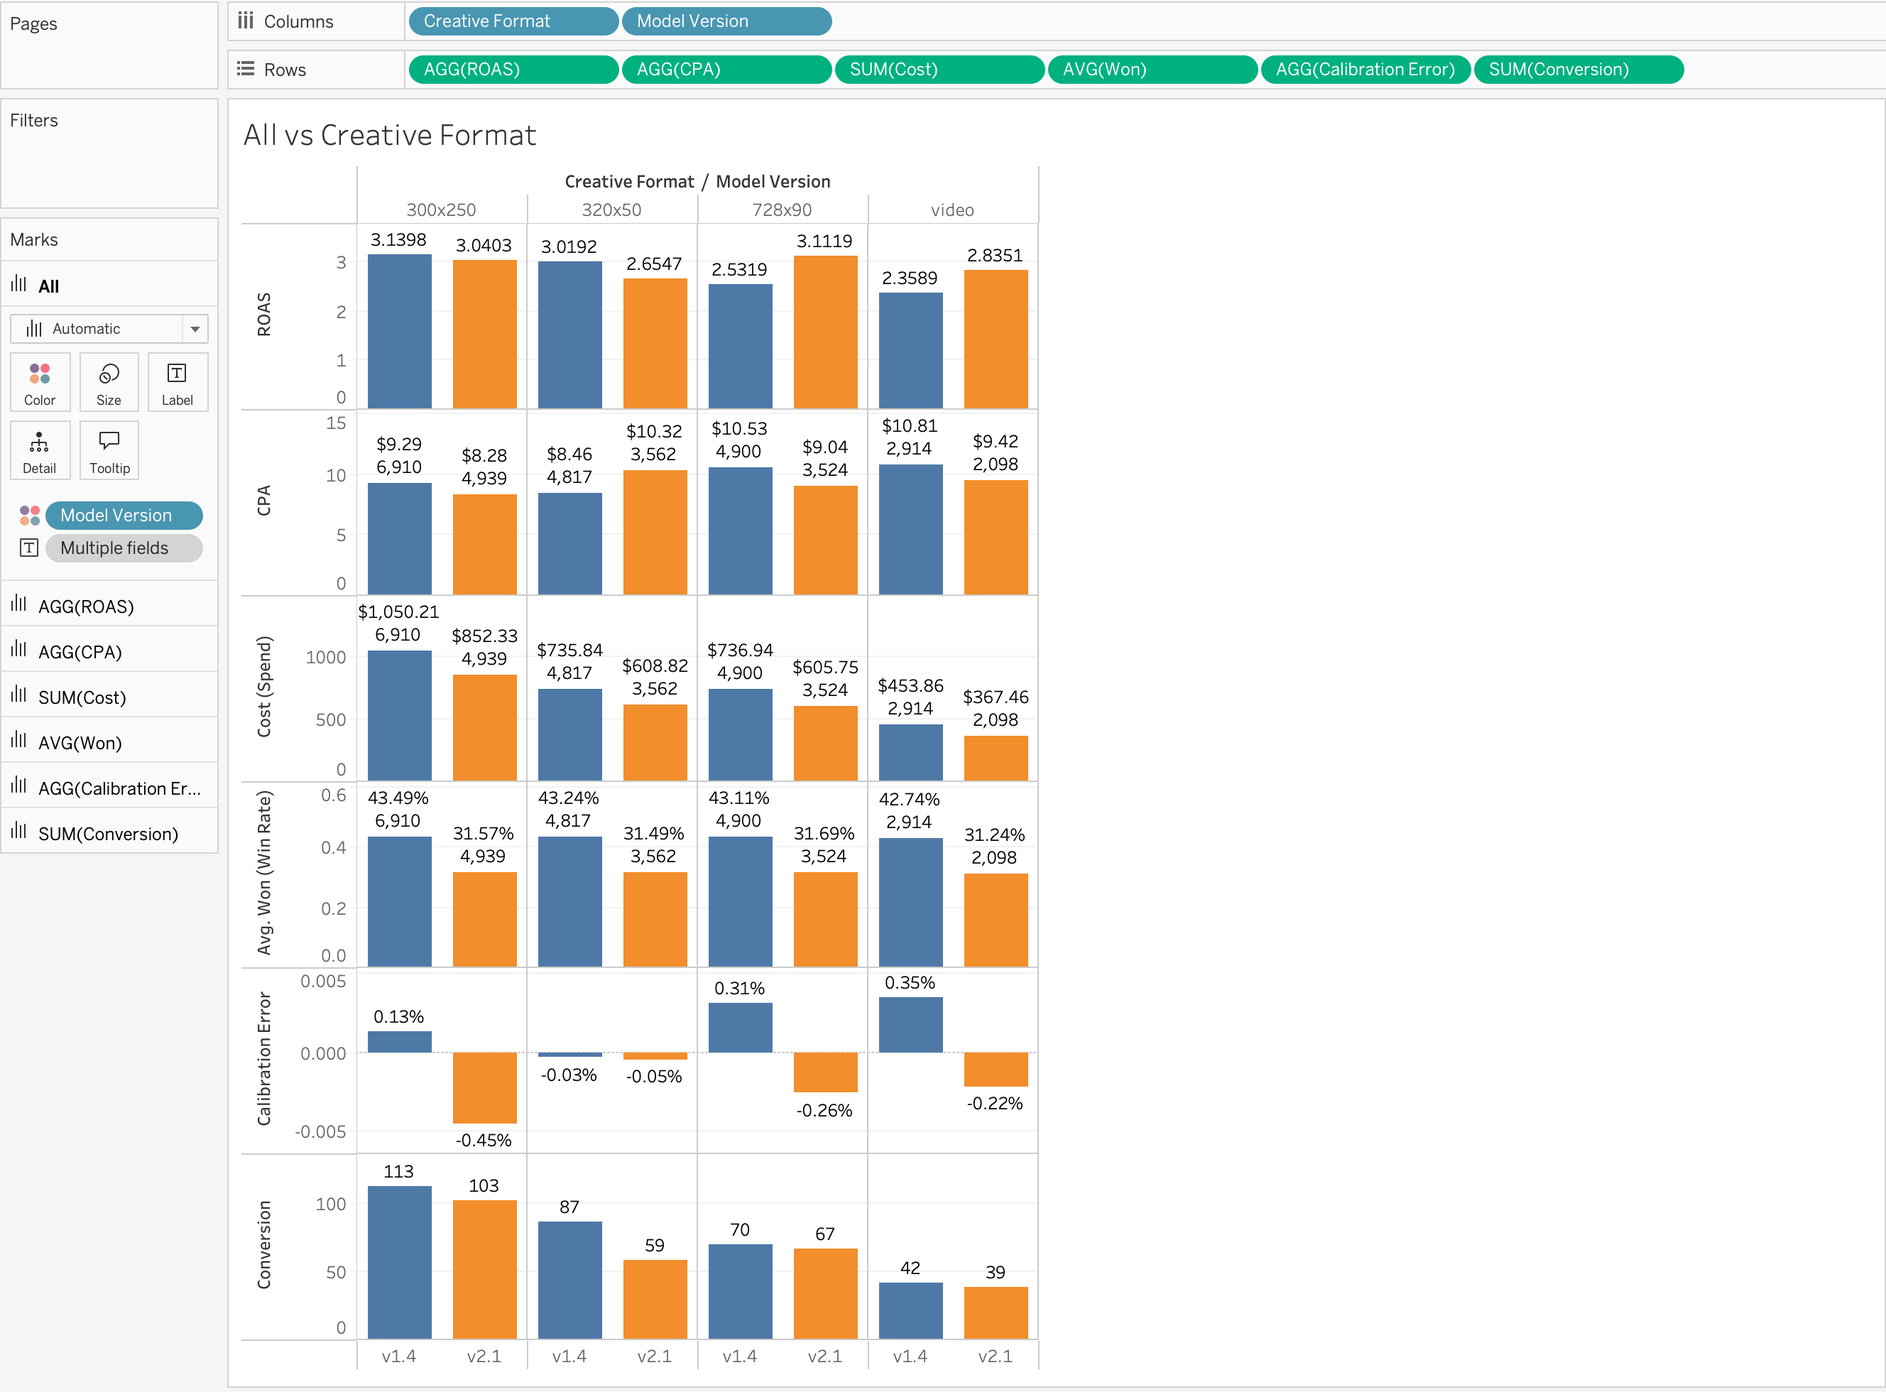
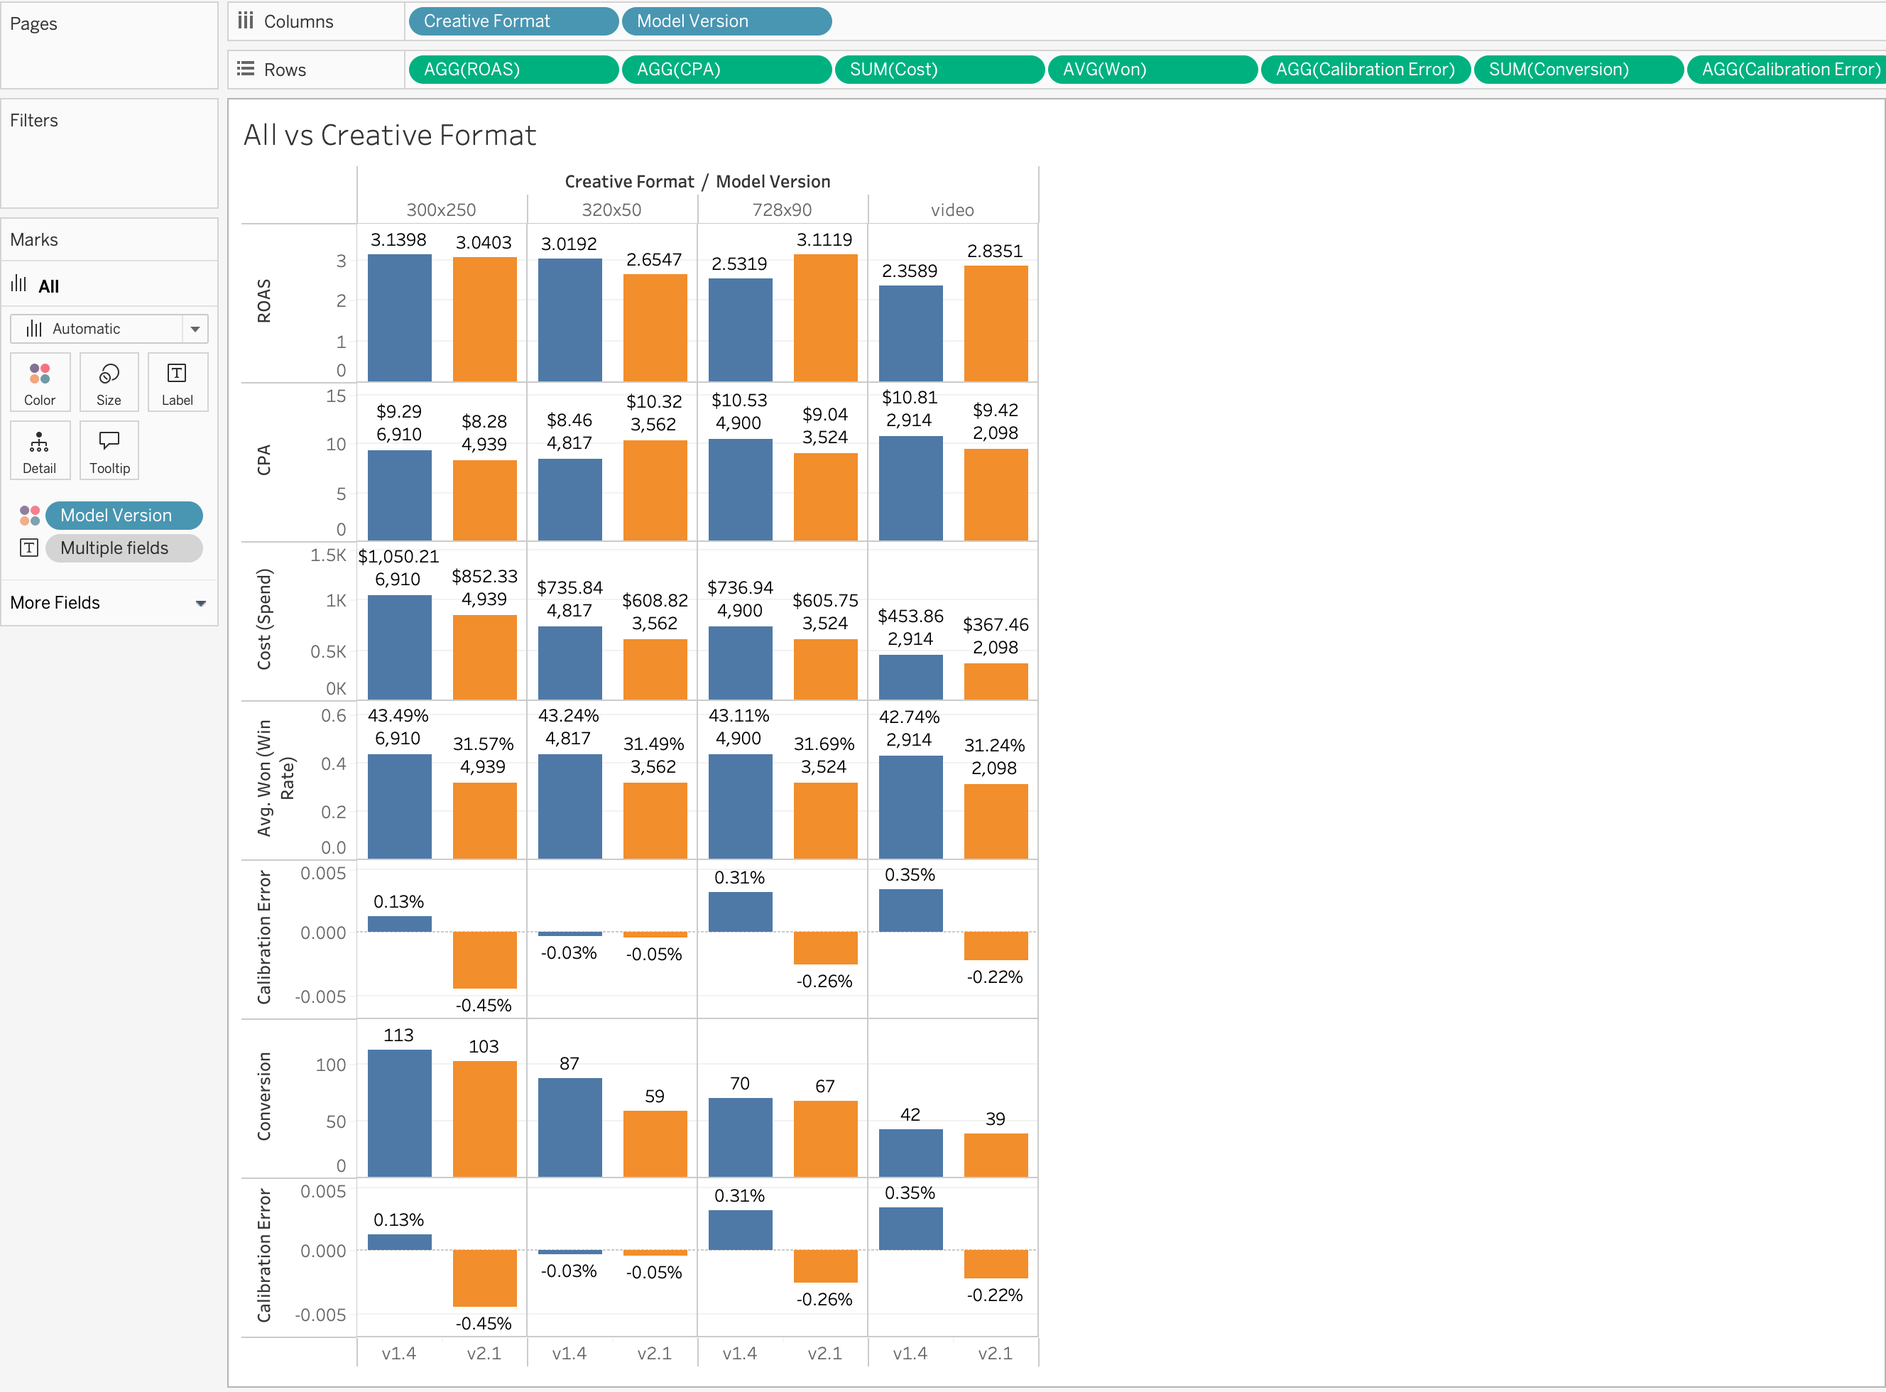
first 3 slides completed

diff --git a/index.html b/index.html
@@ -95,7 +95,7 @@
       position: absolute;
       left: 70px;
       right: 70px;
-      bottom: 22px;
+      bottom: 48px;
       display: flex;
       align-items: center;
       justify-content: space-between;
@@ -154,6 +154,33 @@
     .card.caution { border-color: rgba(255,159,47,0.45); }
     .card.danger { border-color: rgba(255,91,91,0.45); }
     .card.clean { background: rgba(255,255,255,0.045); }
+    .recommendation-stack {
+      display: grid;
+      grid-template-columns: repeat(3, minmax(0, 1fr));
+      gap: 14px;
+      margin-top: 0;
+      align-items: start;
+    }
+    .recommendation-grid { display: grid; gap: 10px; grid-template-columns: 1fr; }
+    .recommendation-card { padding: 11px 12px; min-height: 76px; }
+    .recommendation-card h3 { font-size: 14px; margin-bottom: 4px; }
+    .recommendation-card p { font-size: 12px; line-height: 1.24; }
+    .recommendation-layout {
+      display: grid;
+      grid-template-columns: minmax(0, 1.45fr) minmax(250px, 0.75fr);
+      gap: 22px;
+      align-items: center;
+      margin-top: 18px;
+    }
+    .recommendation-visual {
+      padding: 12px;
+      background: #f8fbfd;
+      border: 1px solid var(--line);
+      border-radius: 18px;
+    }
+    .recommendation-visual .comparison-chart {
+      max-height: 340px;
+    }
 
     .pill-row { display: flex; flex-wrap: wrap; gap: 10px; margin-top: 18px; }
     .pill {
@@ -234,6 +261,112 @@
       line-height: 1.4;
     }
     .visual-slot strong { color: var(--ink); display: block; margin-bottom: 8px; }
+    .comparison-chart {
+      display: block;
+      width: 100%;
+      height: auto;
+      max-height: 430px;
+      object-fit: contain;
+      border-radius: 14px;
+    }
+    .report-gallery {
+      display: grid;
+      grid-template-columns: repeat(3, minmax(0, 1fr));
+      gap: 14px;
+      margin-top: 18px;
+    }
+    .report-tile {
+      min-width: 0;
+      padding: 8px;
+      background: #f8fbfd;
+      border: 1px solid var(--line);
+      border-radius: 16px;
+      cursor: zoom-in;
+    }
+    .report-tile img {
+      display: block;
+      width: 100%;
+      height: 190px;
+      object-fit: contain;
+      border-radius: 10px;
+      background: white;
+    }
+    .report-tile img:focus-visible {
+      outline: 3px solid #EBD769;
+      outline-offset: 3px;
+    }
+    .report-tile figcaption {
+      padding: 8px 4px 2px;
+      color: var(--ink);
+      font-size: 13px;
+      font-weight: 800;
+    }
+    .report-note {
+      margin-top: 12px;
+      color: var(--muted);
+      font-size: 13px;
+      font-weight: 700;
+      text-align: center;
+    }
+    .report-modal {
+      position: fixed;
+      inset: 0;
+      display: none;
+      align-items: center;
+      justify-content: center;
+      padding: 5vh 5vw;
+      background: rgba(23,53,74,0.68);
+      z-index: 2000;
+    }
+    .report-modal-open { overflow: hidden; }
+    .report-modal.open { display: flex; }
+    .report-modal-panel {
+      position: relative;
+      width: min(80vw, 1200px);
+      max-height: 90vh;
+      padding: 16px;
+      overflow: auto;
+      background: #f8fbfd;
+      border: 1px solid #cbdbe3;
+      border-radius: 18px;
+      box-shadow: 0 26px 70px rgba(0,0,0,0.34);
+      animation: reportZoomIn 0.22s ease-out;
+    }
+    .report-modal-panel img {
+      display: block;
+      width: 100%;
+      height: auto;
+      max-height: 78vh;
+      object-fit: contain;
+      border-radius: 10px;
+      background: white;
+    }
+    .report-modal-panel figcaption {
+      padding: 10px 4px 0;
+      color: var(--ink);
+      font-size: 14px;
+      font-weight: 800;
+    }
+    .report-modal-close {
+      position: absolute;
+      top: 8px;
+      right: 8px;
+      width: 36px;
+      height: 36px;
+      border: 1px solid #cbdbe3;
+      border-radius: 50%;
+      background: rgba(255,255,255,0.96);
+      color: var(--ink);
+      font-size: 24px;
+      line-height: 1;
+      cursor: pointer;
+      z-index: 1;
+    }
+    .report-modal-close:hover { background: #eef8fd; }
+    @keyframes reportZoomIn {
+      from { opacity: 0.7; transform: scale(0.72); }
+      to { opacity: 1; transform: scale(1); }
+    }
 
     .route-map { display: grid; gap: 13px; margin-top: 12px; }
     .route-row { display: grid; grid-template-columns: 130px 1fr 116px; gap: 10px; align-items: center; }
@@ -339,7 +472,8 @@
       cursor: pointer;
       backdrop-filter: blur(12px);
     }
-    .nav-btn:hover { background: rgba(215,255,47,0.16); border-color: rgba(215,255,47,0.44); }
+    .nav-btn:hover:not(:disabled) { background: rgba(215,255,47,0.16); border-color: rgba(215,255,47,0.44); }
+    .nav-btn:disabled { opacity: 0.35; cursor: default; }
     .progress { position: fixed; left: 0; bottom: 0; height: 4px; background: linear-gradient(90deg, var(--lime), var(--cyan)); width: 0%; z-index: 101; transition: width 0.25s ease; }
     .help { position: fixed; left: 22px; bottom: 18px; color: rgba(255,255,255,0.55); font-size: 12px; z-index: 100; }
 
@@ -353,6 +487,12 @@
       h1 { font-size: 50px; }
       h2 { font-size: 36px; }
       .grid-2, .grid-3, .grid-4, .grid-main, .split-hero, .compare { grid-template-columns: 1fr; }
+      .recommendation-layout { grid-template-columns: 1fr; }
+      .recommendation-stack { grid-template-columns: 1fr; }
+      .recommendation-grid { grid-template-columns: 1fr; }
+      .report-gallery { grid-template-columns: 1fr; }
+      .report-tile img { height: auto; max-height: 260px; }
+      .report-modal-panel { width: 92vw; max-height: 88vh; }
       .orb { width: 310px; height: 310px; margin: 20px auto 0; }
       .metric-grid { grid-template-columns: repeat(2, 1fr); }
       .timeline { grid-template-columns: 1fr; }
@@ -587,12 +727,27 @@
       box-shadow: 0 6px 18px rgba(31,75,99,0.11);
       backdrop-filter: none;
     }
-    .nav-btn:hover {
+    .nav-btn:hover:not(:disabled) {
       background: #eef8fd;
       border-color: rgba(10,130,190,0.42);
     }
+    .nav-btn:disabled {
+      opacity: 0.4;
+      cursor: default;
+      box-shadow: none;
+    }
     .progress {
-      background: linear-gradient(90deg, #0A82BE 0%, #0A82BE 88%, #EBD769 100%);
+      background: #0A82BE;
+      overflow: hidden;
+    }
+    .progress::after {
+      content: "";
+      position: absolute;
+      top: 0;
+      right: 0;
+      bottom: 0;
+      width: 8px;
+      background: #EBD769;
     }
     .help { color: #84929b; }
 
@@ -623,57 +778,68 @@
       <div class="slide-content">
         <div class="kicker">Final decision</div>
         <h2>Ship v2.1 — but only on validated cohorts first.</h2>
-        <div class="decision-band">
-          <div class="decision active">
-            <div class="label">Recommend</div>
-            <div class="value">Ship v2.1 controlled</div>
-            <div class="why">Better overall unit economics, with known segment-level regressions.</div>
+        <p class="subhead" style="font-size:18px; max-width:1080px; margin-top:-8px;">v2.1 is not universally better, but it is more efficient overall and wins materially in several high-value/high-volume cohorts. The regressions are concentrated and identifiable, which is why a controlled/hybrid rollout is preferable to either a full rollout or a hold.</p>
+        <div class="recommendation-layout">
+          <div class="recommendation-stack">
+            <div class="recommendation-grid four">
+              <div class="card glow recommendation-card"><h3>Better overall efficiency</h3><p class="muted">ROAS <strong>2.84 → 2.93</strong>; CPA <strong>$9.54 → $9.08</strong>.</p></div>
+              <div class="card glow recommendation-card"><h3>Lower spend</h3><p class="muted"><strong>~ $542 less overall</strong> while preserving strong business outcomes.</p></div>
+              <div class="card glow recommendation-card"><h3>Strong in high-value cohorts</h3><p class="muted">Especially <strong>Mobile, Lookalike, APAC, 728x90, Video</strong>.</p></div>
+              <div class="card glow recommendation-card"><h3>Broad campaign improvement</h3><p class="muted">Better CPA in <strong>4/5</strong> campaigns and better ROAS in <strong>3/5</strong>.</p></div>
+            </div>
+            <div class="recommendation-grid two">
+              <div class="card caution recommendation-card"><h3>More selective bidding</h3><p class="muted">Lower win rate, <strong>~ 43.2% → 31.5%</strong> but better unit economics in key segments.</p></div>
+            </div>
+            <div class="recommendation-grid three">
+              <!-- <div class="card danger recommendation-card"><h3>Lower win rate</h3><p class="muted"><strong>~ 43.2% → 31.5%</strong>, creating scale and delivery risk.</p></div> -->
+              <div class="card danger recommendation-card"><h3>Segment regressions</h3><p class="muted">Weaker in <strong>CMP_1003, Tablet, 320x50, Retargeting</strong>.</p></div>
+              <!-- <div class="card danger recommendation-card"><h3>Possible over-conservatism</h3><p class="muted">May miss valuable auctions in some cohorts.</p></div> -->
+              <div class="card danger recommendation-card"><h3>Calibration not uniformly better</h3><p class="muted">Some segments still show prediction error.</p></div>
+              <div class="card danger recommendation-card"><h3>Publisher instability</h3><p class="muted">Performance varies significantly by publisher.</p></div>
+            </div>
           </div>
-          <div class="decision">
-            <div class="label">Do not</div>
-            <div class="value">Full replace v1.4</div>
-            <div class="why">Regression pockets still need isolation and fixes.</div>
+          <div class="recommendation-visual">
+            <img class="comparison-chart" src="Reports/v1.4%20vs%20v2.1.png" alt="Comparison chart of v1.4 and v2.1 performance metrics" />
           </div>
-          <div class="decision">
-            <div class="label">Fallback</div>
-            <div class="value">Route weak cohorts</div>
-            <div class="why">Use v1.4 only where it is validated to outperform.</div>
-          </div>
-        </div>
-        <div class="grid grid-3" style="margin-top:28px;">
-          <div class="card glow"><div class="big-number accent">4/5</div><h3>Campaigns with better CPA</h3><p class="muted">v2.1 reduces acquisition cost in most campaigns.</p></div>
-          <div class="card glow"><div class="big-number cyan">3/5</div><h3>Campaigns with better ROAS</h3><p class="muted">Efficiency improves, though not uniformly.</p></div>
-          <div class="card caution"><div class="big-number" style="color:var(--orange);">5</div><h3>Regression areas</h3><p class="muted">CMP_1003, Tablet, 320x50, Retargeting, selected publishers.</p></div>
         </div>
       </div>
       <div class="footer"><span>Decision: ship / hold / fix</span><span>02</span></div>
     </section>
 
-    <section class="slide" data-title="Model scorecard">
-      <div class="brand"><span class="brand-dot"></span> Model scorecard</div>
+    <section class="slide" data-title="Cohort report gallery">
+      <div class="brand"><span class="brand-dot"></span> Cohort report gallery</div>
       <div class="slide-content">
-        <div class="kicker">Why v2.1 wins overall</div>
-        <h2>v2.1 is more selective: fewer wins, higher conversion quality, lower spend.</h2>
-        <div class="grid grid-main">
-          <div class="card">
-            <table class="mini-table" aria-label="Model comparison table">
-              <thead><tr><th>Dimension</th><th>v2.1</th><th>v1.4</th></tr></thead>
-              <tbody>
-                <tr><td>CPA</td><td class="tick">Better in 4/5</td><td class="cross">Worse overall</td></tr>
-                <tr><td>ROAS</td><td class="tick">Better in 3/5</td><td>Mixed</td></tr>
-                <tr><td>Spend</td><td class="tick">Lower</td><td class="cross">Higher</td></tr>
-                <tr><td>Win behavior</td><td>Selective</td><td class="cross">Aggressive</td></tr>
-                <tr><td>Conversion quality</td><td class="tick">Higher CVR</td><td>Lower CVR</td></tr>
-                <tr><td>Risk</td><td>Segment regressions</td><td>Over-bidding</td></tr>
-              </tbody>
-            </table>
-          </div>
-          <div class="visual-slot">
-            <div><strong>Tableau placeholder</strong>Insert campaign-level CPA / ROAS comparison here.</div>
-          </div>
+        <div class="kicker">Six views of model performance</div>
+        <h2>Compare v1.4 and v2.1 across the cohorts that shape rollout.</h2>
+        <div class="report-gallery" aria-label="Cohort performance reports">
+          <figure class="report-tile">
+            <img src="Reports/CampaignReport.png" alt="Campaign report comparing v1.4 and v2.1" tabindex="0" />
+            <figcaption>Campaign</figcaption>
+          </figure>
+          <figure class="report-tile">
+            <img src="Reports/PublisherReport.png" alt="Publisher report comparing v1.4 and v2.1" tabindex="0" />
+            <figcaption>Publisher</figcaption>
+          </figure>
+          <figure class="report-tile">
+            <img src="Reports/DeviceReport.png" alt="Device report comparing v1.4 and v2.1" tabindex="0" />
+            <figcaption>Device</figcaption>
+          </figure>
+          <figure class="report-tile">
+            <img src="Reports/RegionReport.png" alt="Region report comparing v1.4 and v2.1" tabindex="0" />
+            <figcaption>Region</figcaption>
+          </figure>
+          <figure class="report-tile">
+            <img src="Reports/AudienceSegmentReport.png" alt="Audience segment report comparing v1.4 and v2.1" tabindex="0" />
+            <figcaption>Audience segment</figcaption>
+          </figure>
+          <figure class="report-tile">
+            <img src="Reports/CreativeFormatReport.png" alt="Creative format report comparing v1.4 and v2.1" tabindex="0" />
+            <figcaption>Creative format</figcaption>
+          </figure>
         </div>
+        <p class="report-note">click to enlarge graphs</p>
       </div>
-      <div class="footer"><span>Replace placeholder once Tableau visuals are ready</span><span>03</span></div>
+      <div class="footer"><span>Use cohort cuts to guide rollout and regression monitoring</span><span>03</span></div>
     </section>
 
     <section class="slide" data-title="Efficiency gains">
@@ -979,6 +1145,14 @@
     </section>
   </main>
 
+  <div class="report-modal" id="reportModal" role="dialog" aria-modal="true" aria-label="Enlarged cohort report">
+    <figure class="report-modal-panel">
+      <button class="report-modal-close" id="reportModalClose" type="button" aria-label="Close enlarged graph">&times;</button>
+      <img id="reportModalImage" src="" alt="" />
+      <figcaption id="reportModalCaption"></figcaption>
+    </figure>
+  </div>
+
   <div class="help">Use ← / → keys. Press F for fullscreen.</div>
   <div class="slide-nav" aria-label="Slide navigation">
     <button class="nav-btn" id="prev" aria-label="Previous slide">‹</button>
@@ -989,19 +1163,57 @@
   <script>
     const slides = Array.from(document.querySelectorAll('.slide'));
     const progress = document.getElementById('progress');
+    const prevBtn = document.getElementById('prev');
+    const nextBtn = document.getElementById('next');
+    const reportTiles = Array.from(document.querySelectorAll('.report-tile'));
+    const reportModal = document.getElementById('reportModal');
+    const reportModalPanel = document.querySelector('.report-modal-panel');
+    const reportModalImage = document.getElementById('reportModalImage');
+    const reportModalCaption = document.getElementById('reportModalCaption');
+    const reportModalClose = document.getElementById('reportModalClose');
     let current = Math.max(0, Math.min(slides.length - 1, Number(location.hash.replace('#slide-', '')) - 1 || 0));
 
+    function closeReportModal() {
+      reportModal.classList.remove('open');
+      reportModalImage.removeAttribute('src');
+      document.body.classList.remove('report-modal-open');
+    }
+
+    reportTiles.forEach((tile) => {
+      tile.addEventListener('click', () => {
+        const image = tile.querySelector('img');
+        reportModalImage.src = image.src;
+        reportModalImage.alt = image.alt;
+        reportModalCaption.textContent = tile.querySelector('figcaption').textContent;
+        reportModal.classList.add('open');
+        document.body.classList.add('report-modal-open');
+        reportModalClose.focus();
+      });
+    });
+
+    reportModalClose.addEventListener('click', closeReportModal);
+    reportModal.addEventListener('click', (event) => {
+      if (event.target === reportModal) closeReportModal();
+    });
+    reportModalPanel.addEventListener('click', (event) => event.stopPropagation());
+
     function show(index) {
-      current = (index + slides.length) % slides.length;
+      current = Math.max(0, Math.min(slides.length - 1, index));
       slides.forEach((s, i) => s.classList.toggle('active', i === current));
       progress.style.width = ((current + 1) / slides.length * 100) + '%';
       history.replaceState(null, '', '#slide-' + (current + 1));
       document.title = `${String(current + 1).padStart(2, '0')} / ${slides.length} — ${slides[current].dataset.title}`;
+      prevBtn.disabled = current === 0;
+      nextBtn.disabled = current === slides.length - 1;
     }
 
-    document.getElementById('prev').addEventListener('click', () => show(current - 1));
-    document.getElementById('next').addEventListener('click', () => show(current + 1));
+    prevBtn.addEventListener('click', () => show(current - 1));
+    nextBtn.addEventListener('click', () => show(current + 1));
     document.addEventListener('keydown', (e) => {
+      if (reportModal.classList.contains('open')) {
+        if (e.key === 'Escape') closeReportModal();
+        return;
+      }
       if (['ArrowRight', 'PageDown', ' '].includes(e.key)) { e.preventDefault(); show(current + 1); }
       if (['ArrowLeft', 'PageUp'].includes(e.key)) { e.preventDefault(); show(current - 1); }
       if (e.key.toLowerCase() === 'f') {
